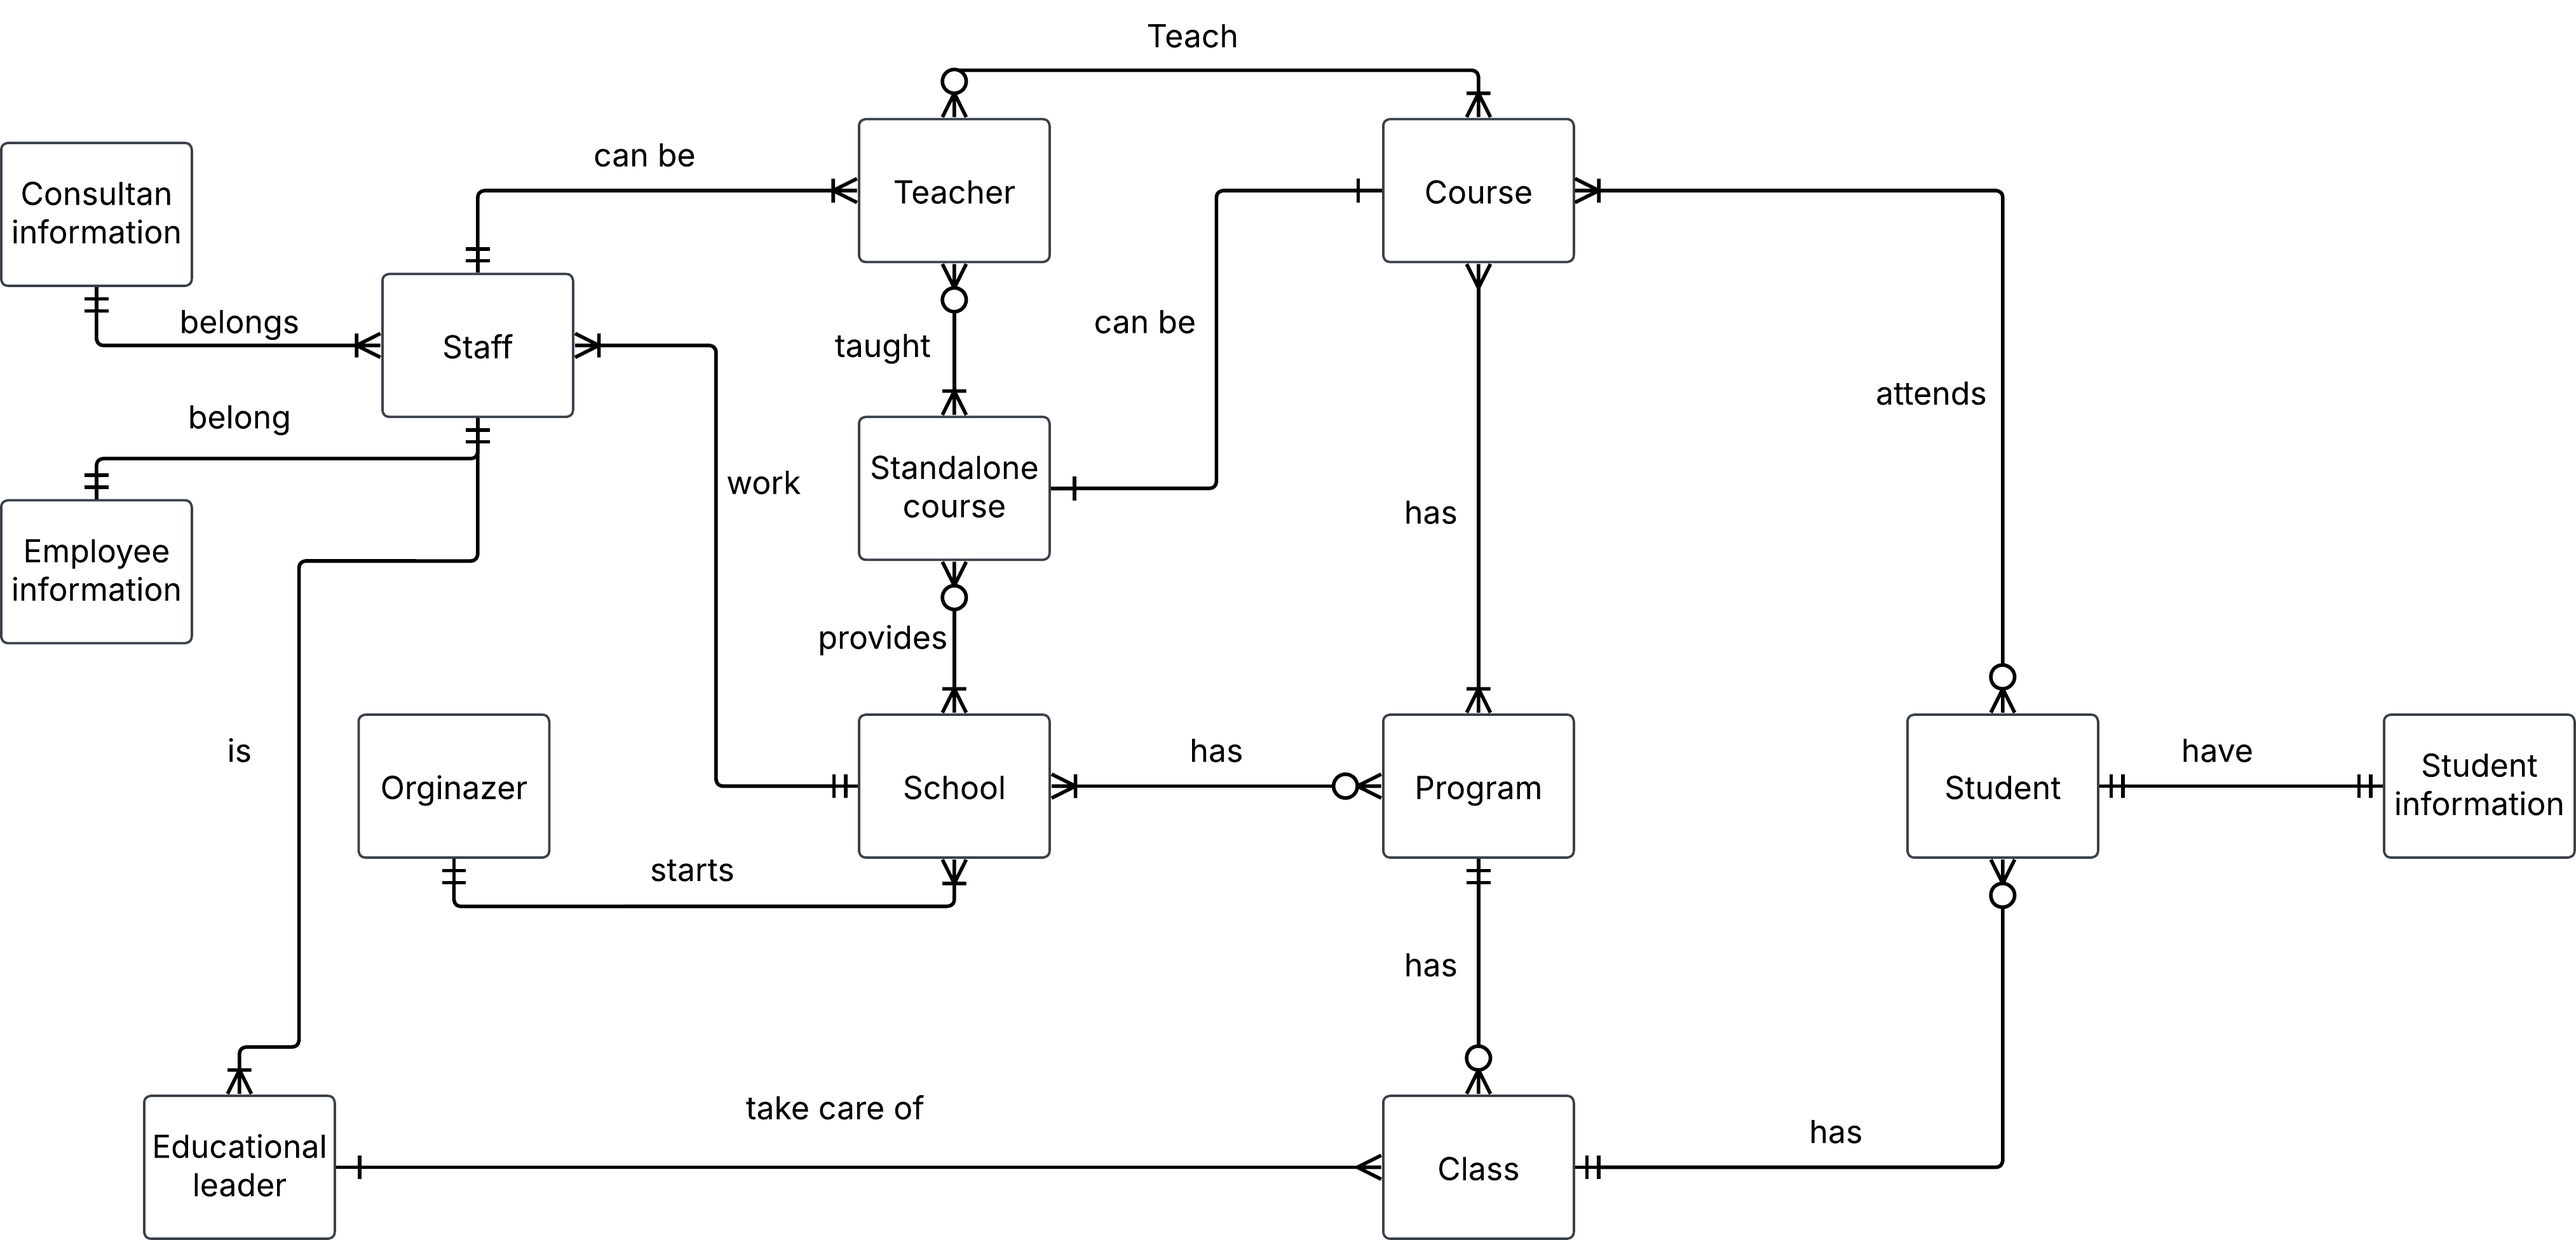
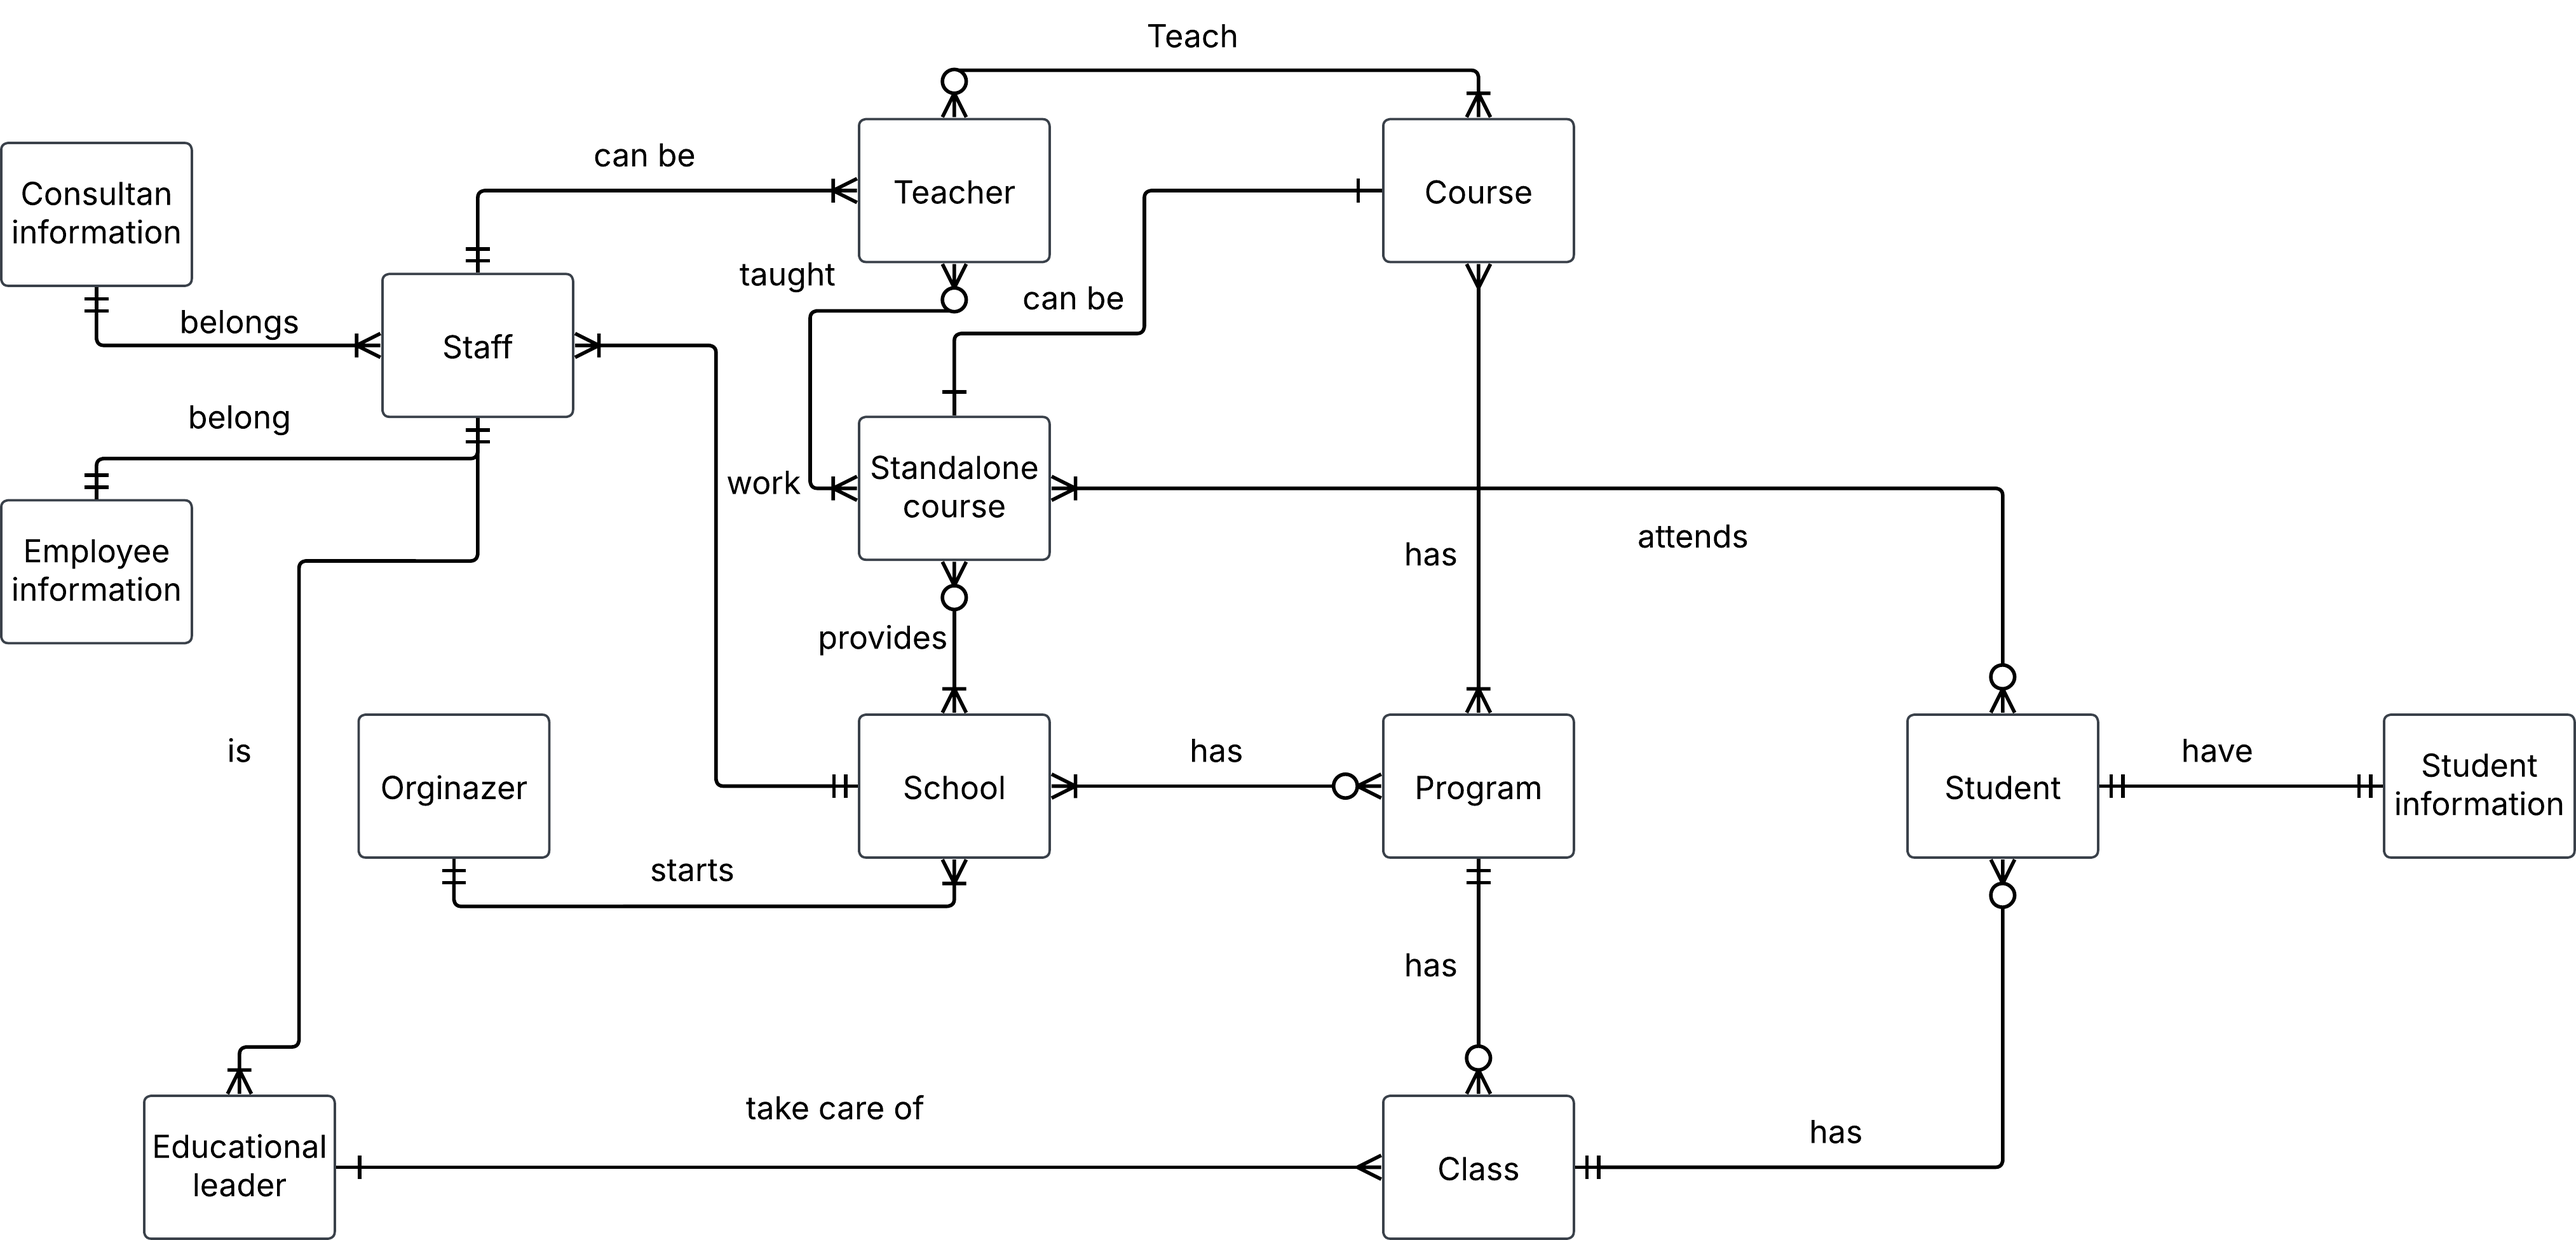
conceptual erd

diff --git a/yh_labb.md b/yh_labb.md
@@ -42,22 +42,28 @@
 
 - An Orginazer `starts` one or sevral Schools, each schools `belong` to just one Orginazer.
 - Each School has zero, one or many Programs, and Program `exists` in one or sevral Schools.
-- A School `provides` zero, one or sevral Standalone courses, and a Standalone course is `available` in one or sevral Schools.
+- A School `provides` zero, one or sevral courses, and a Course is `available` in one or sevral Schools.
 - School `has` one or sevral staff members, and Staff member `work` at one school.
 - A Standalone course is `taught` by zero, one or sevral teachers, A Teacher `teach` zero, one or more standalone courses. 
 - Teacher `teach` in one or more courses, a Course be `taught` by zero, one or sevral teachers.
 - A Class `has` a program that it follows, Program `has` zero, one or more classes that are followed by.
 - Program has `sevral` courses, a Course `exists` in one or sevral programs.
 - Each Educational leader `is` one and only one staff, a Staff `can` be one or more educational leader.
-- Each Educational leader `take care of` sevral classes, a Class `have` zero or one educational leader.
+- Each Educational leader is `responsible` for sevral classes, a Class `have` zero or one educational leader.
 - A class `has` zero, one or sevral students, Student are `placed` in one and only one class
 - Each Student `have` one and only one information, Student information `have` only one student.
-- A Student `attends` to one or sevral courses, every Course, there are students.
+- A Student `attends` to one or sevral standalone courses, every Standalone Course `there will be` zero or sevral students. 
 - Employee information `belong` to one and only one staff member, A staff `have` one and only one employee information.
-- Consultan information `belongs` to one or sevral staff member, A Staff member `have` only one cosultan information attached to it.
+- Consultan information can `belong` to one or sevral staff member, A Staff member `have` only one cosultan information attached to it.
 - A Staff member `can be` one or more teacher, A Teacher `can` only be sign in as one and only one staff member.
 - Standalone course `can` be a course in the program, a Course in the program `can` be a standalone course
 
 <br>
 
 <img src = "assets/conceptual_erd.png">
+
+<br>
+
+**conceptual ERD with composite entities**
+
+<img src = "assets/conceptual_erd_composite_entities.png">
